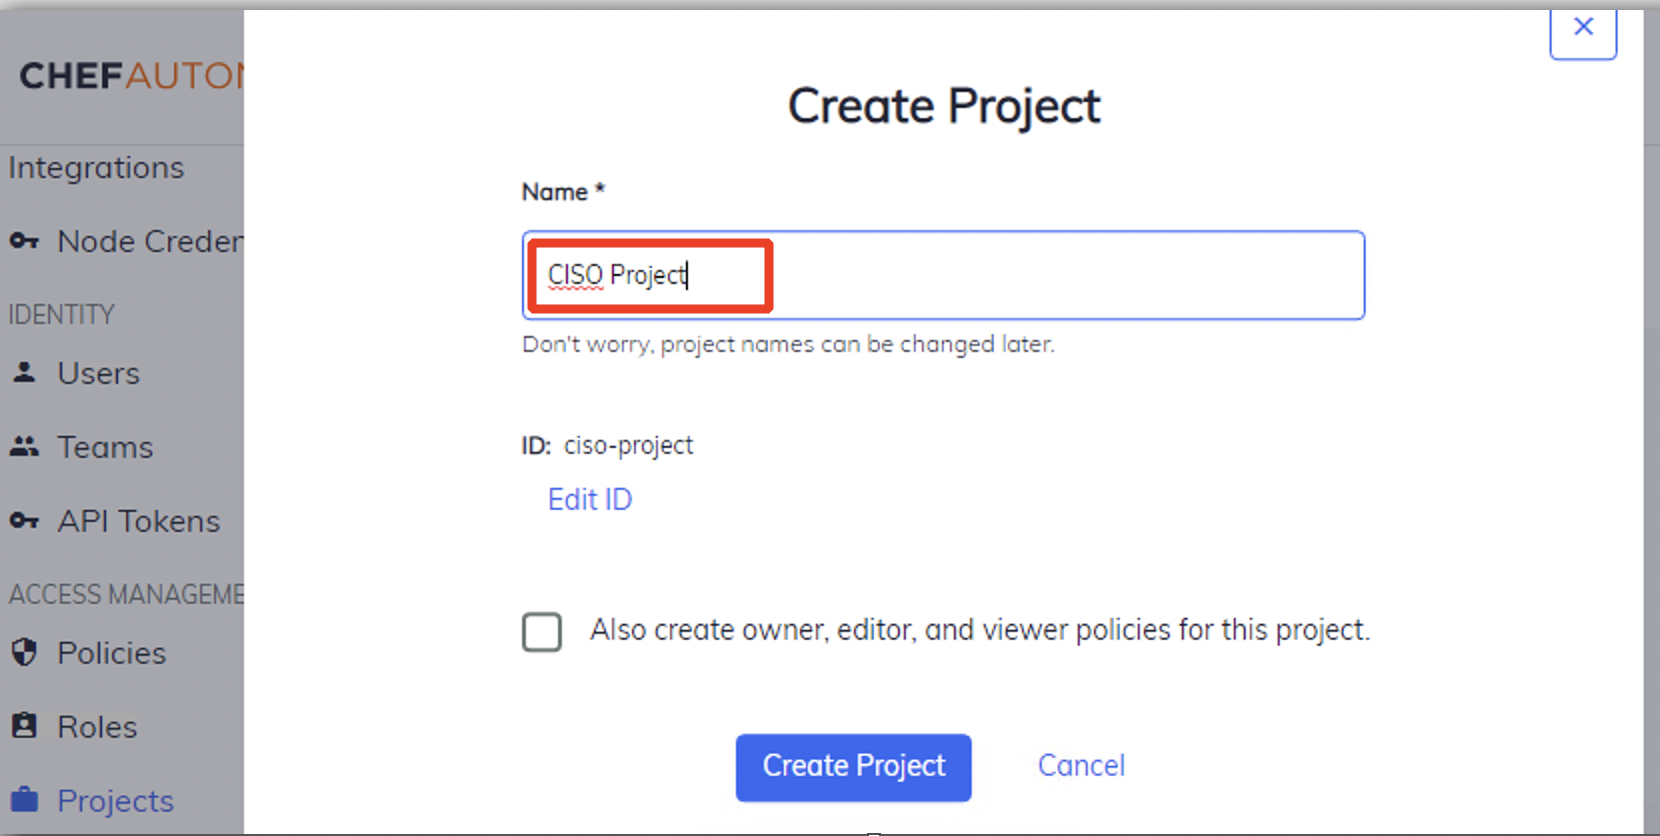
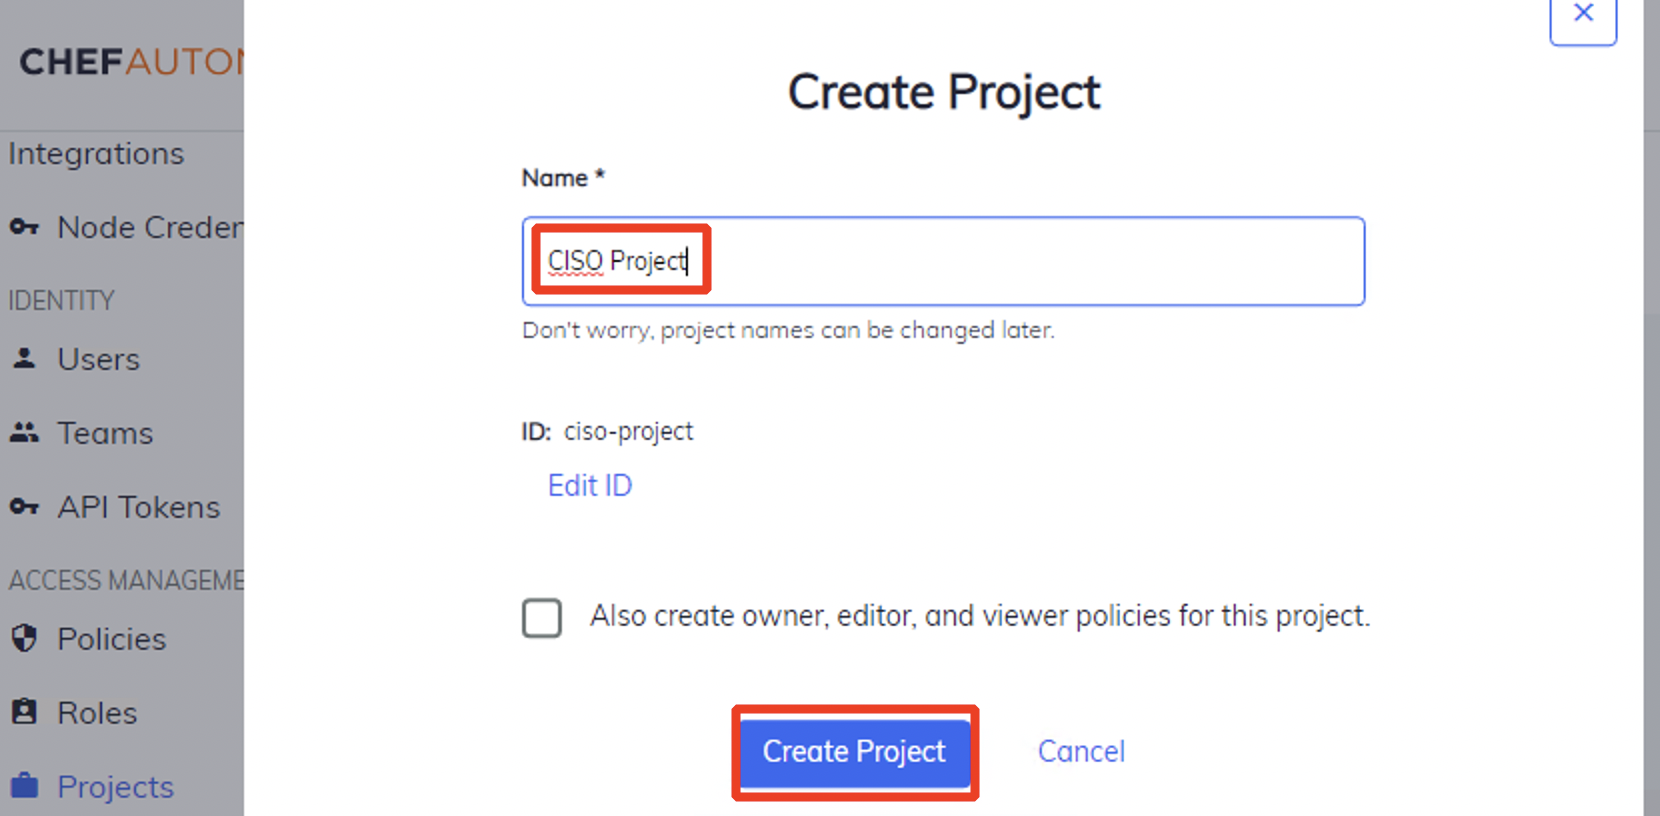
modify teams

diff --git a/ReadMe.md b/ReadMe.md
@@ -20,9 +20,10 @@ If this is a previously used A2 box, you will have to delete all `Legacy` polici
 #### Setup 
 
 Within A2:
-- Go to `Settings` -> `Projects` -> `Create Project` -> call it `CISO Project`
+- Create a Project: Go to `Settings` -> `Projects` -> `Create Project` -> call it `CISO Project` -> `Create Project`
 <img src="https://raw.githubusercontent.com/danf425/ChefAutomate_LimitViewability/master/images/a2-settings-projects.png" width="380" height="190">  <img src="https://raw.githubusercontent.com/danf425/ChefAutomate_LimitViewability/master/images/a2-settings-projects-create.png" width="380" height="190">    
-- Within `Settings` -> `Teams` -> Create a new team: `leadership` and attach the `CISO project` to it.
+- Create a Team: Go to `Settings` -> `Teams` -> `Create Team` -> call it `Compliance Leadership` -> Assign it to newly created `CISO project` -> `Create Team`
+<img src="https://raw.githubusercontent.com/danf425/ChefAutomate_LimitViewability/master/images/a2-settings-teams.png" width="380" height="190">  <img src="https://raw.githubusercontent.com/danf425/ChefAutomate_LimitViewability/master/images/a2-settings-teams-create.png" width="380" height="190">    
 - Create a new user: `ciso`
 - Add user `ciso` to team `leadership`
 
